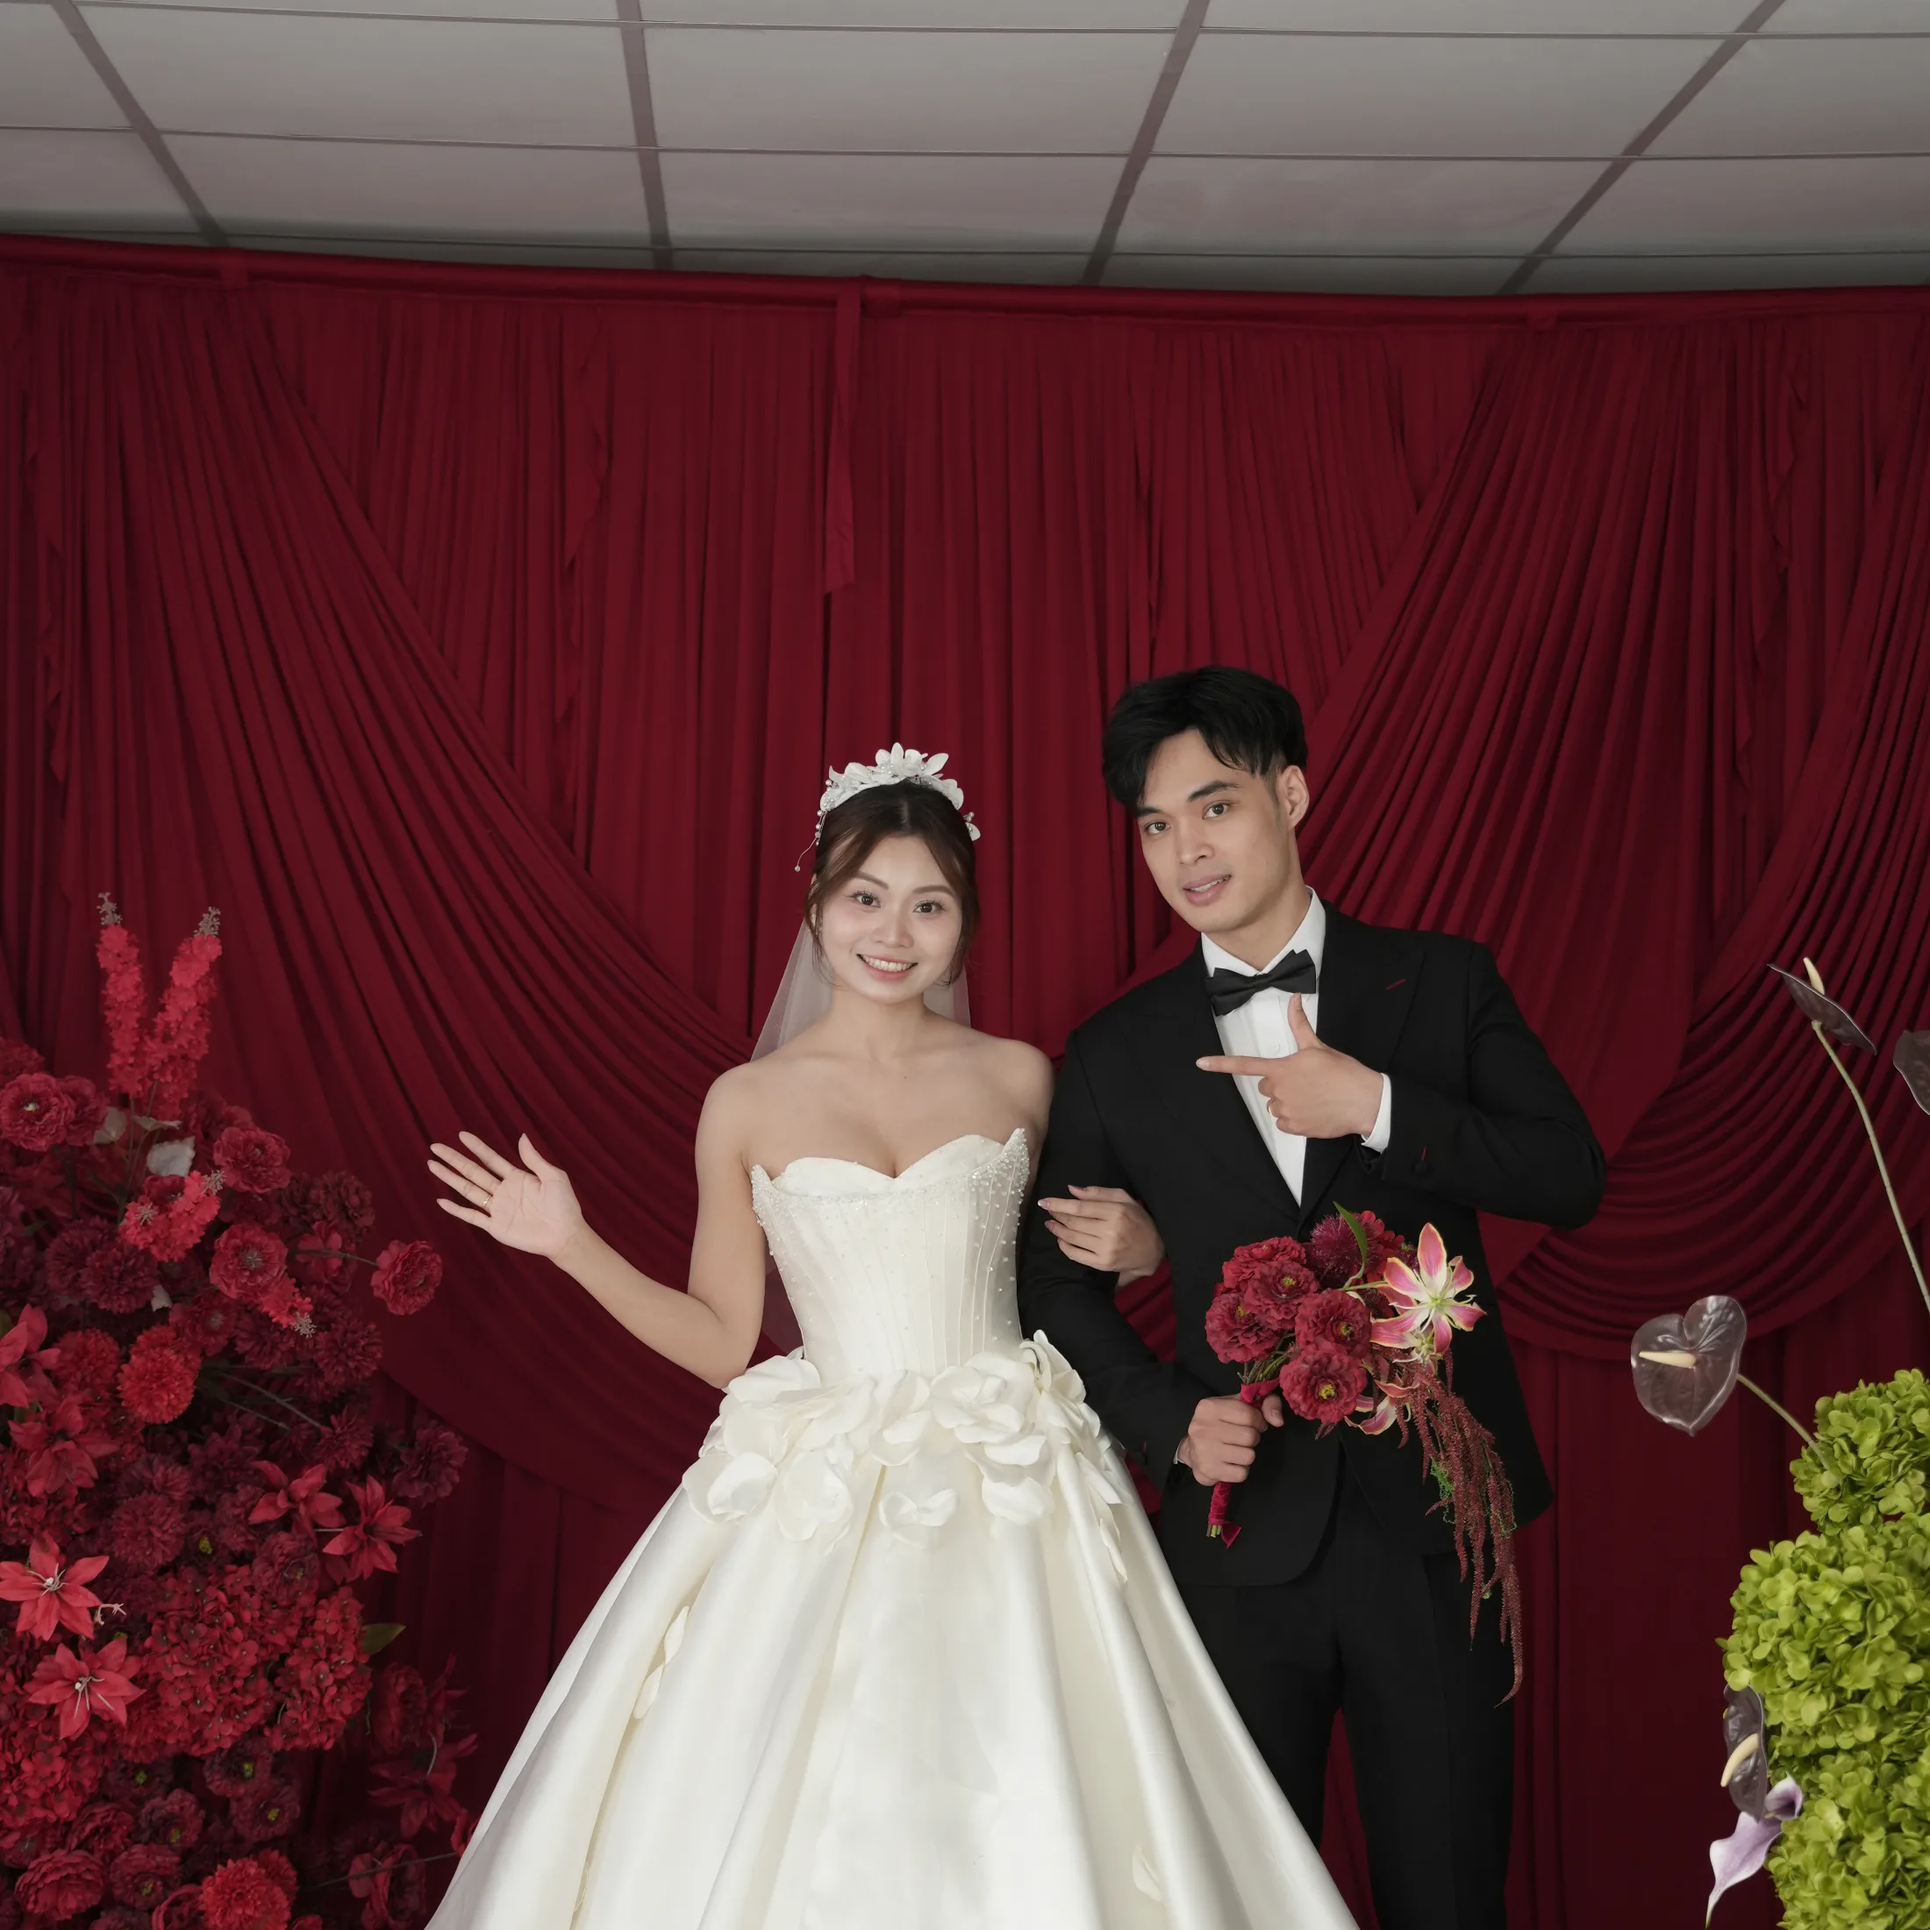
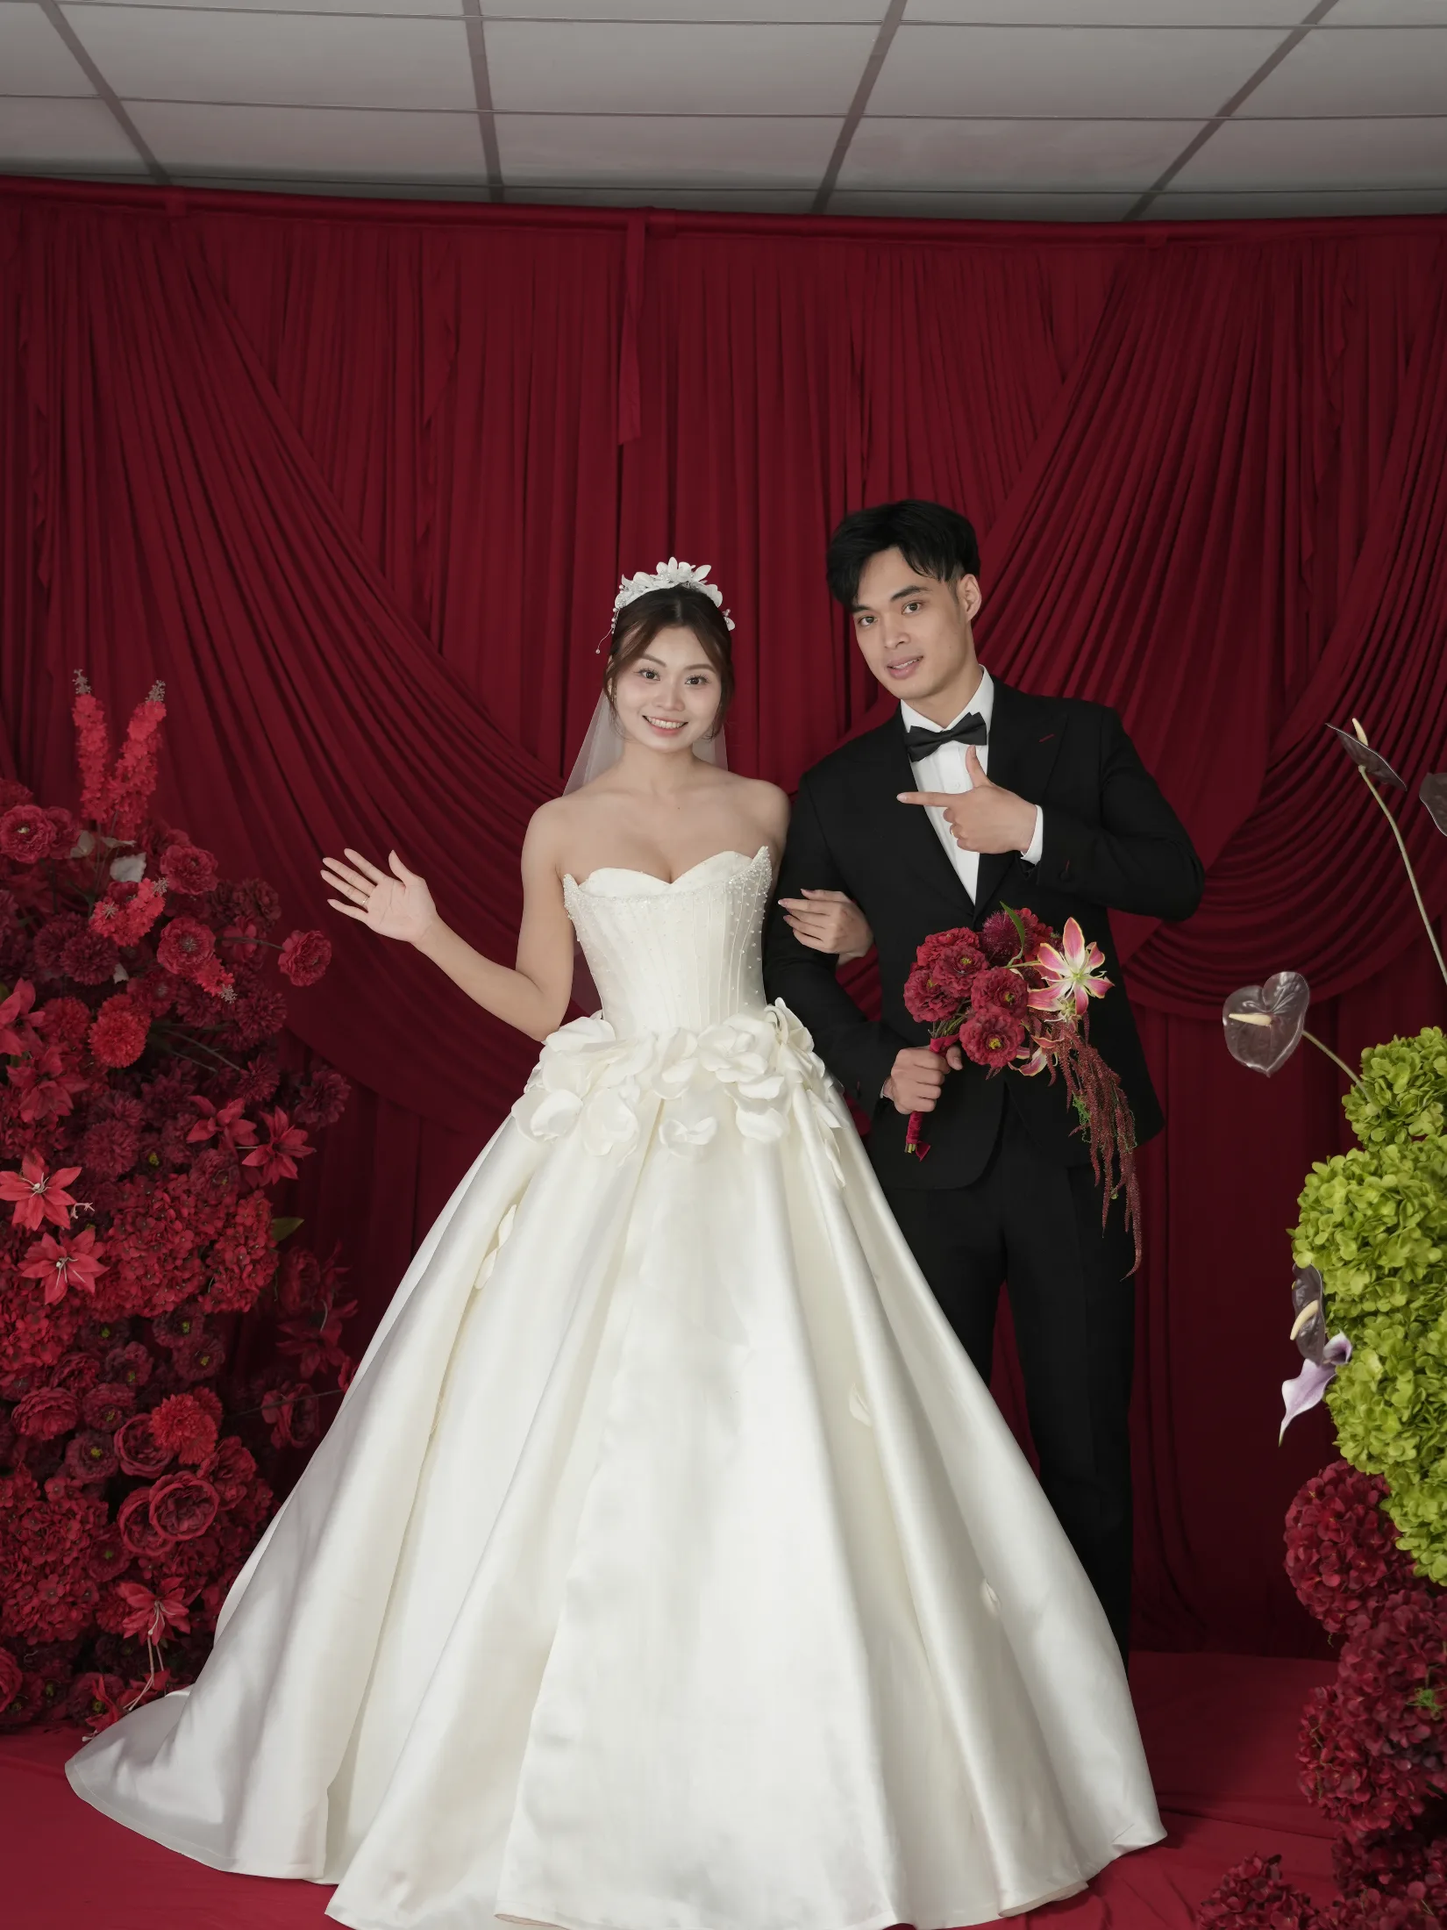
Show photos in their true colours and add eight more to the album
The design system tints every framed photo sepia (.plate filter); wedding photos
now render untinted. The album grows to twelve photos on a six-track grid: full-row
landscapes, landscapes over four tracks beside one portrait, and rows of three
portraits, packed densely so rows stay level. The square crop becomes 3:4.

diff --git a/index.html b/index.html
@@ -305,10 +305,19 @@
   <p class="wed-kicker wed-head wed-reveal" data-reveal>Album</p>
   <h2 class="wed-title wed-head wed-reveal" data-reveal style="margin-bottom:clamp(24px,4vw,40px)">Những khoảnh khắc</h2>
   <div class="wed-album">
-    <figure class="plate wed-wide wed-reveal" data-reveal><div class="wed-slot" data-slot="wed-g1" data-alt="Ảnh cưới" style="aspect-ratio:3/2"><span class="wed-slot-cap">Ảnh ngang</span></div></figure>
+    <figure class="plate wed-wide wed-wide--full wed-reveal" data-reveal><div class="wed-slot" data-slot="wed-g1" data-alt="Ảnh cưới" style="aspect-ratio:3/2"><span class="wed-slot-cap">Ảnh ngang</span></div></figure>
+    <figure class="plate wed-wide wed-reveal" data-reveal><div class="wed-slot" data-slot="wed-g5" data-alt="Ảnh cưới" style="aspect-ratio:3/2"><span class="wed-slot-cap">Ảnh ngang</span></div></figure>
     <figure class="plate wed-reveal" data-reveal><div class="wed-slot" data-slot="wed-g2" data-alt="Ảnh cưới" style="aspect-ratio:3/4"><span class="wed-slot-cap">Ảnh dọc</span></div></figure>
+    <figure class="plate wed-reveal" data-reveal><div class="wed-slot" data-slot="wed-g8" data-alt="Ảnh cưới" style="aspect-ratio:3/4"><span class="wed-slot-cap">Ảnh dọc</span></div></figure>
     <figure class="plate wed-reveal" data-reveal><div class="wed-slot" data-slot="wed-g3" data-alt="Ảnh cưới" style="aspect-ratio:3/4"><span class="wed-slot-cap">Ảnh dọc</span></div></figure>
-    <figure class="plate wed-reveal" data-reveal><div class="wed-slot" data-slot="wed-g4" data-alt="Ảnh cưới" style="aspect-ratio:3/4"><span class="wed-slot-cap">Ảnh dọc</span></div></figure>  </div>
+    <figure class="plate wed-reveal" data-reveal><div class="wed-slot" data-slot="wed-g9" data-alt="Ảnh cưới" style="aspect-ratio:3/4"><span class="wed-slot-cap">Ảnh dọc</span></div></figure>
+    <figure class="plate wed-wide wed-wide--full wed-reveal" data-reveal><div class="wed-slot" data-slot="wed-g7" data-alt="Ảnh cưới" style="aspect-ratio:3/2"><span class="wed-slot-cap">Ảnh ngang</span></div></figure>
+    <figure class="plate wed-wide wed-reveal" data-reveal><div class="wed-slot" data-slot="wed-g6" data-alt="Ảnh cưới" style="aspect-ratio:3/2"><span class="wed-slot-cap">Ảnh ngang</span></div></figure>
+    <figure class="plate wed-reveal" data-reveal><div class="wed-slot" data-slot="wed-g4" data-alt="Ảnh cưới" style="aspect-ratio:3/4"><span class="wed-slot-cap">Ảnh dọc</span></div></figure>
+    <figure class="plate wed-reveal" data-reveal><div class="wed-slot" data-slot="wed-g10" data-alt="Ảnh cưới" style="aspect-ratio:3/4"><span class="wed-slot-cap">Ảnh dọc</span></div></figure>
+    <figure class="plate wed-reveal" data-reveal><div class="wed-slot" data-slot="wed-g11" data-alt="Ảnh cưới" style="aspect-ratio:3/4"><span class="wed-slot-cap">Ảnh dọc</span></div></figure>
+    <figure class="plate wed-reveal" data-reveal><div class="wed-slot" data-slot="wed-g12" data-alt="Ảnh cưới" style="aspect-ratio:3/4"><span class="wed-slot-cap">Ảnh dọc</span></div></figure>
+  </div>
 </section>
 
 <section class="wed-band wed-band--both">

diff --git a/css/wedding.css b/css/wedding.css
@@ -108,6 +108,8 @@ section[id]{scroll-margin-top:72px}
 .input{background:transparent;border-color:var(--color-divider)}
 .input::placeholder{opacity:.5}
 .card,.plate{background:transparent}
+/* The design system tints framed photos sepia; wedding photos keep their own colours */
+.plate{filter:none}
 .btn-secondary,.btn-ghost{color:var(--color-text)}
 .btn-primary{transition:box-shadow .45s ease,background-color .3s ease,color .3s ease}
 .btn-primary:hover{box-shadow:0 0 0 4px color-mix(in srgb,var(--wed-accent) 24%,transparent)}
@@ -306,13 +308,13 @@ section[id]{scroll-margin-top:72px}
   .wed-album{grid-template-columns:repeat(3,minmax(0,1fr))}
   .wed-album > .wed-wide{grid-column:1 / -1}
 }
-/* Wide screens: the landscape photo takes two thirds of the first row with one portrait beside it
-   (same height), the other two portraits share the second row */
+/* Wide screens, six tracks: a 3:2 landscape over four tracks is as tall as a 3:4 portrait over two,
+   so rows stay level; "--full" landscapes take the whole row. Dense packing fills any gaps. */
 @media (min-width:960px){
-  .wed-album{grid-template-columns:repeat(6,minmax(0,1fr))}
+  .wed-album{grid-template-columns:repeat(6,minmax(0,1fr));grid-auto-flow:dense}
+  .wed-album > figure{grid-column:span 2}
   .wed-album > .wed-wide{grid-column:span 4}
-  .wed-album > figure:nth-child(2){grid-column:span 2}
-  .wed-album > figure:nth-child(n+3){grid-column:span 3}
+  .wed-album > .wed-wide--full{grid-column:1 / -1}
 }
 
 /* ===== Quote ===== */

diff --git a/js/config.js b/js/config.js
@@ -46,6 +46,14 @@ window.WEDDING_CONFIG = {
     'wed-g2': 'assets/photos/album-2.webp',
     'wed-g3': 'assets/photos/album-3.webp',
     'wed-g4': 'assets/photos/album-4.webp',
+    'wed-g5': 'assets/photos/album-5.webp',
+    'wed-g6': 'assets/photos/album-6.webp',
+    'wed-g7': 'assets/photos/album-7.webp',
+    'wed-g8': 'assets/photos/album-8.webp',
+    'wed-g9': 'assets/photos/album-9.webp',
+    'wed-g10': 'assets/photos/album-10.webp',
+    'wed-g11': 'assets/photos/album-11.webp',
+    'wed-g12': 'assets/photos/album-12.webp',
     'wed-map-1': '',
     'wed-map-2': '',
     'wed-qr-groom': '',
